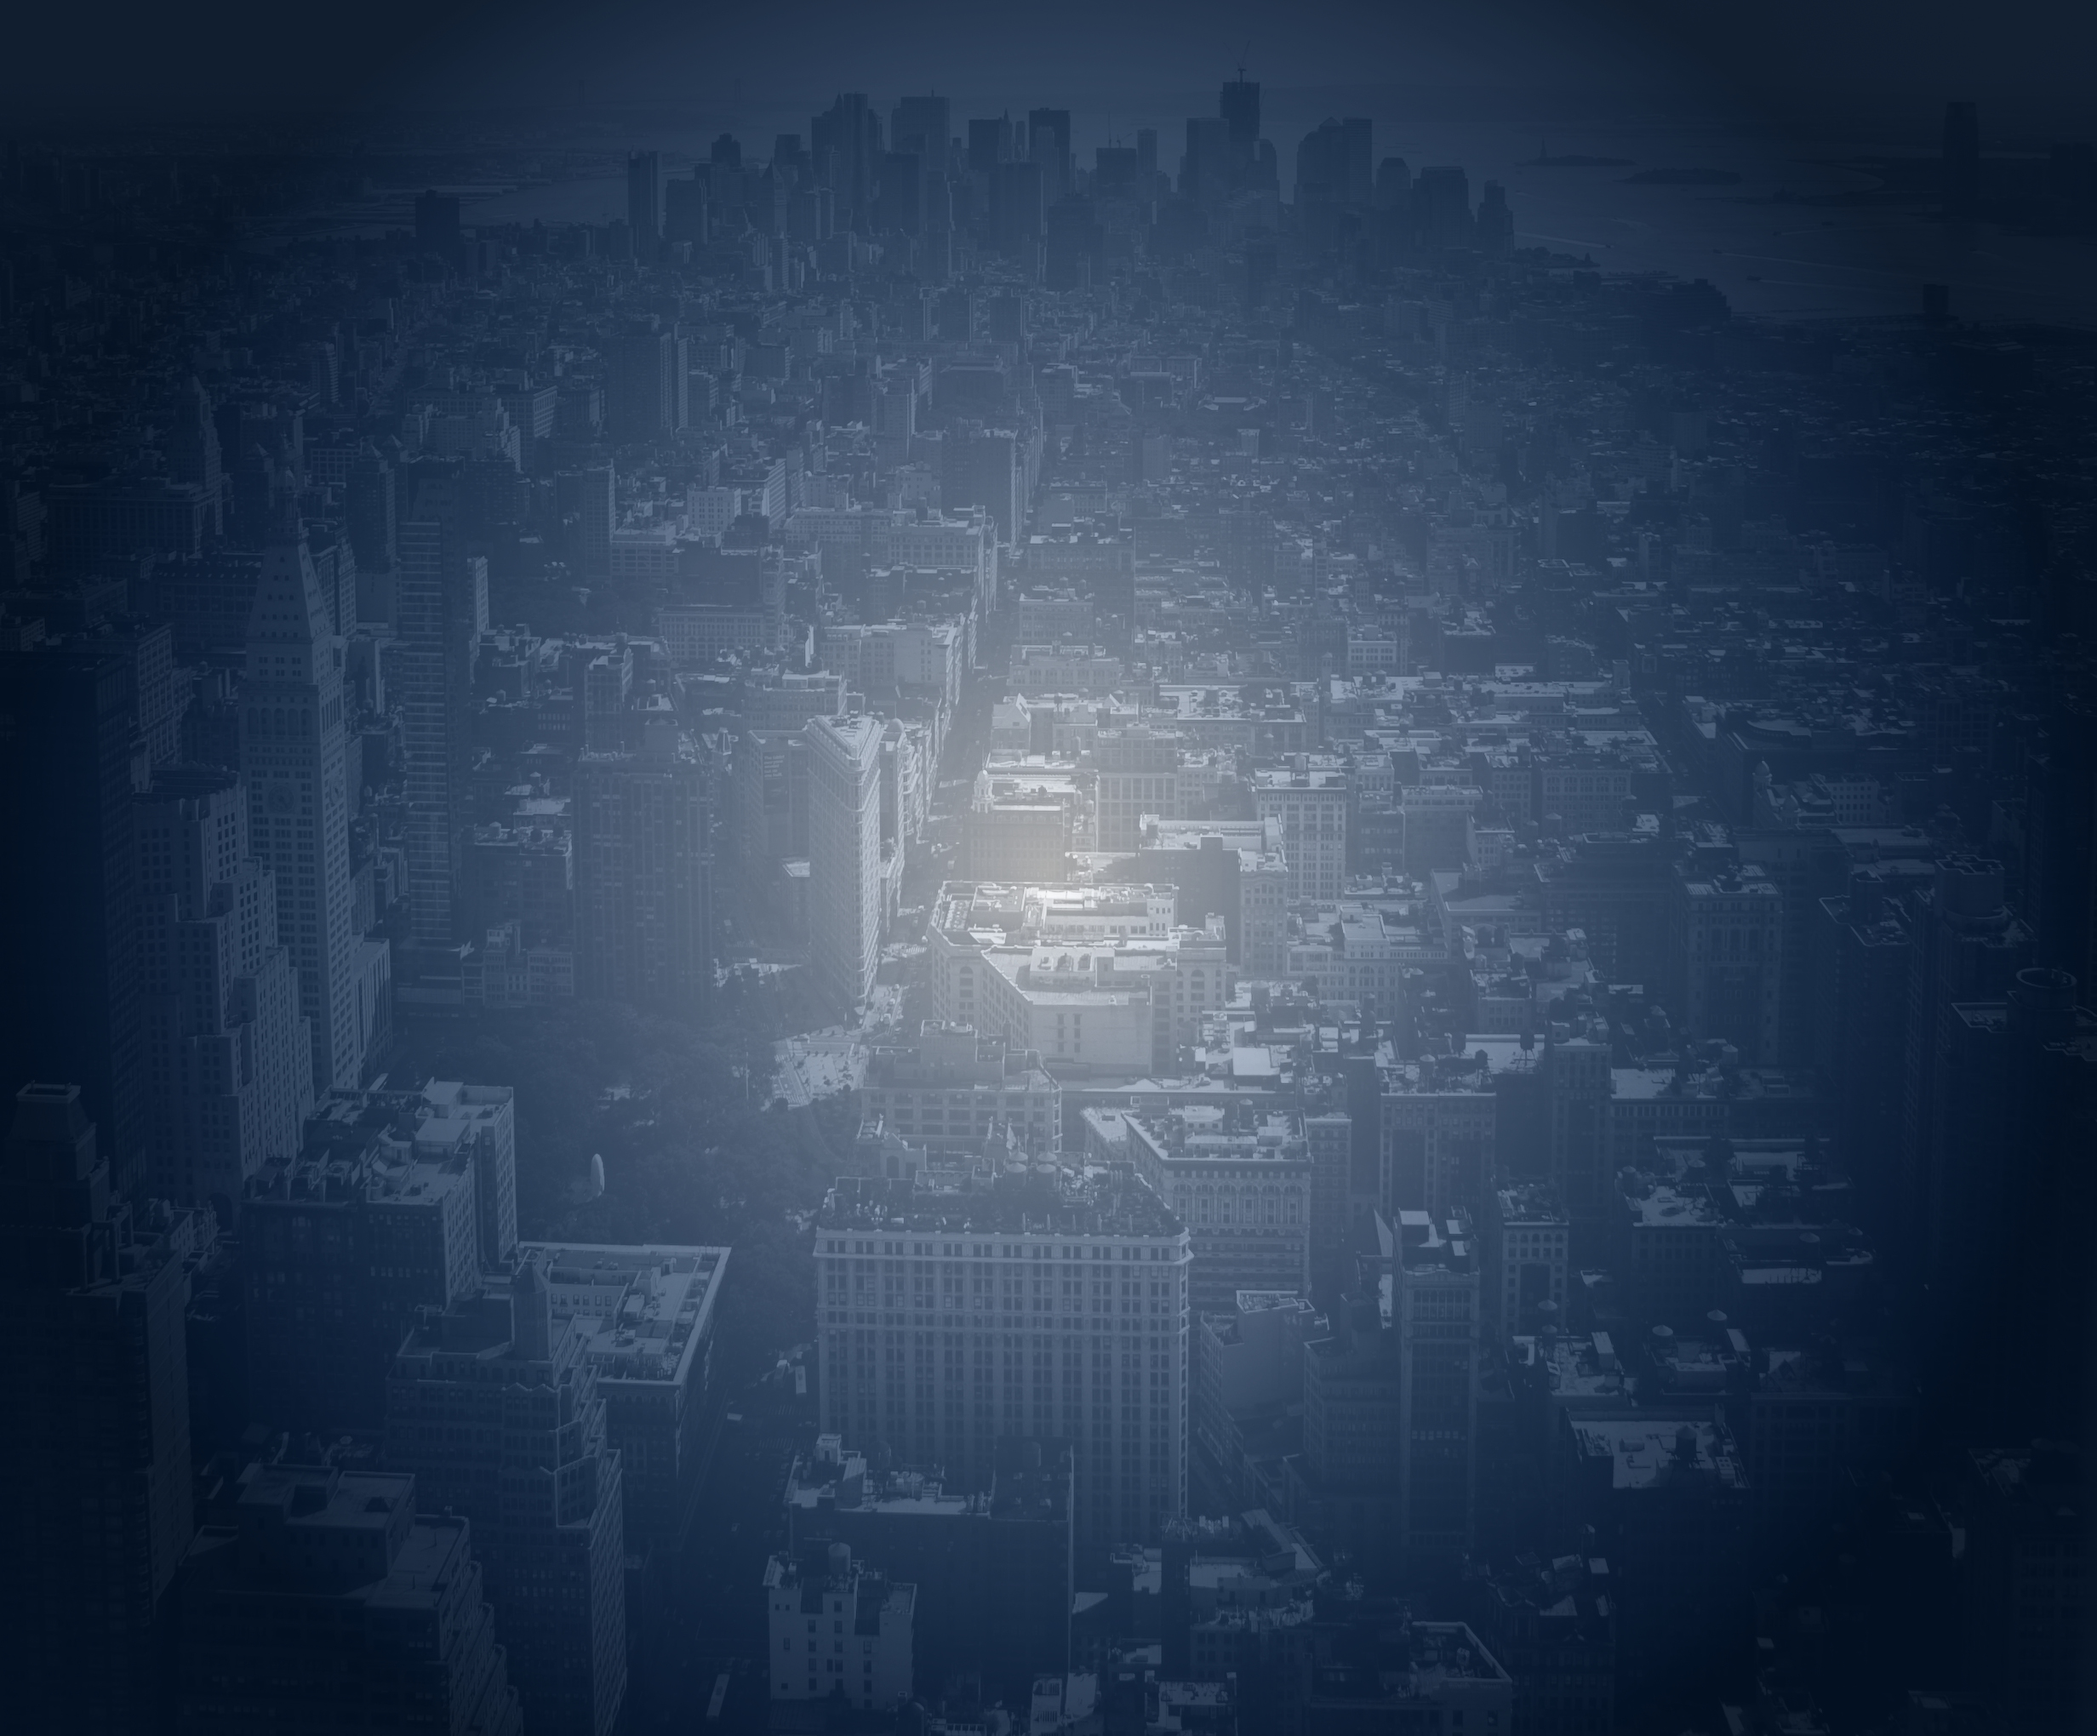
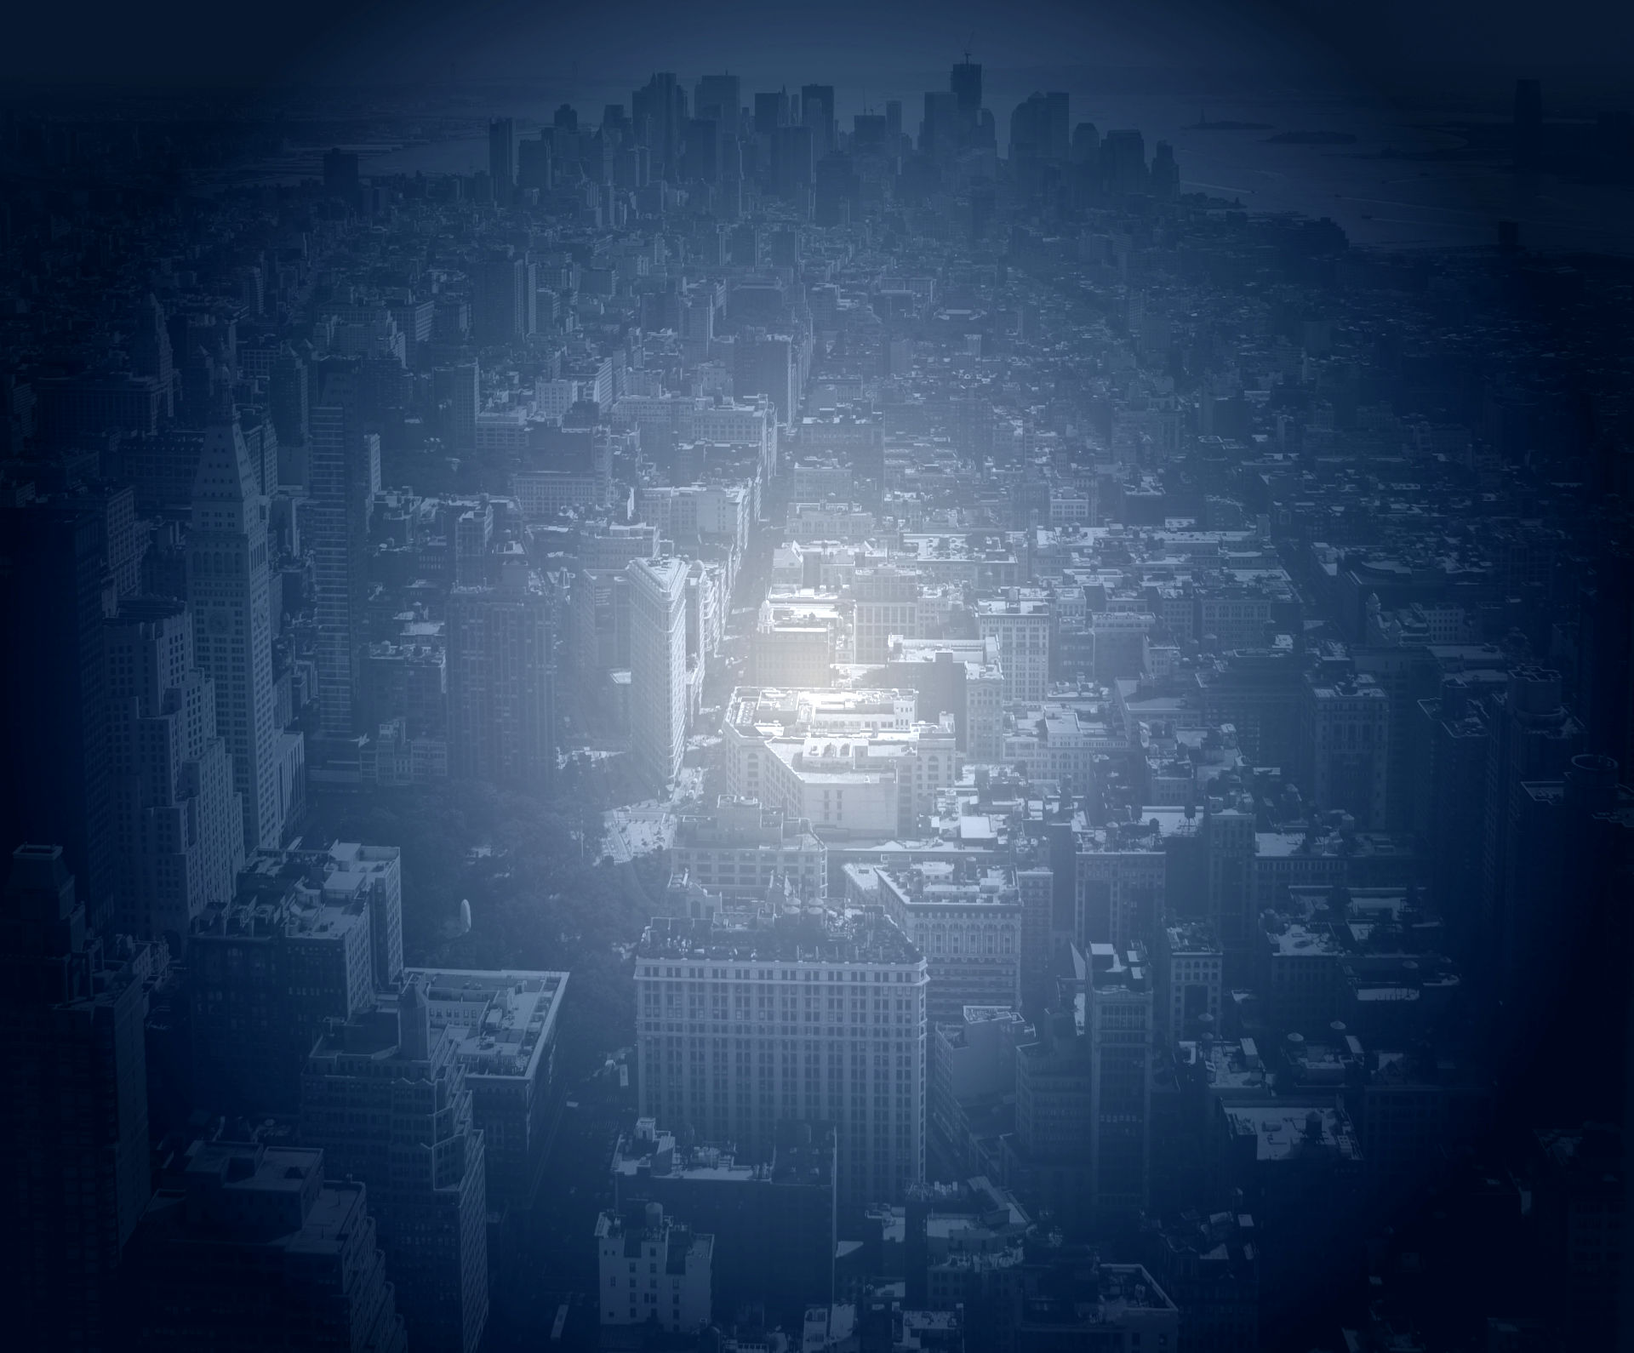
Added Screenshot and Readme.md

diff --git a/public/stylesheets/main.css b/public/stylesheets/main.css
@@ -1,6 +1,6 @@
 body.city {
     background-color: #3d4f69; /*Fallback*/
-    background-size:cover;
+    /*background-size:cover;*/
     background-position:center;
     background-repeat:no-repeat;
     background-attachment:fixed;
@@ -140,13 +140,14 @@ input[type="search"] {
 .entry {
     background: #fff;
     border: 1px solid #ccc;
-    color: #000;
+    color: #777;
     font-size: 18px;
     
-    
     margin-top: 10px;
-    padding:5px;
-    -webkit-animation: insert 0.3s linear;
-    
+    padding:9px;    
+}
+
+.entry .hl {
+    color:#353535;
 }
 

diff --git a/routes/job.js b/routes/job.js
@@ -1,4 +1,4 @@
-var titles = ["Software Engeneer", "Firefighter", "Software Architect", "Teacher", "Big Boss"];
+var titles = ["Software Engineer", "Firefighter", "Software Architect", "Teacher", "Big Boss"];
 var locations = ["Karlsruhe", "Karlsruhe-Mühlburg", "Karlsruhe-Süd", "Karlsruhe-Reinhafen", "Eppingen", "San Francisco", "Sydney"];
 
 /**

diff --git a/Readme.md b/Readme.md
@@ -1,0 +1,2 @@
+
+![ScreenShot](https://raw.github.com/essigt/JobSearchSide/master/docs/Screenshot-Chrome-small.jpg)
